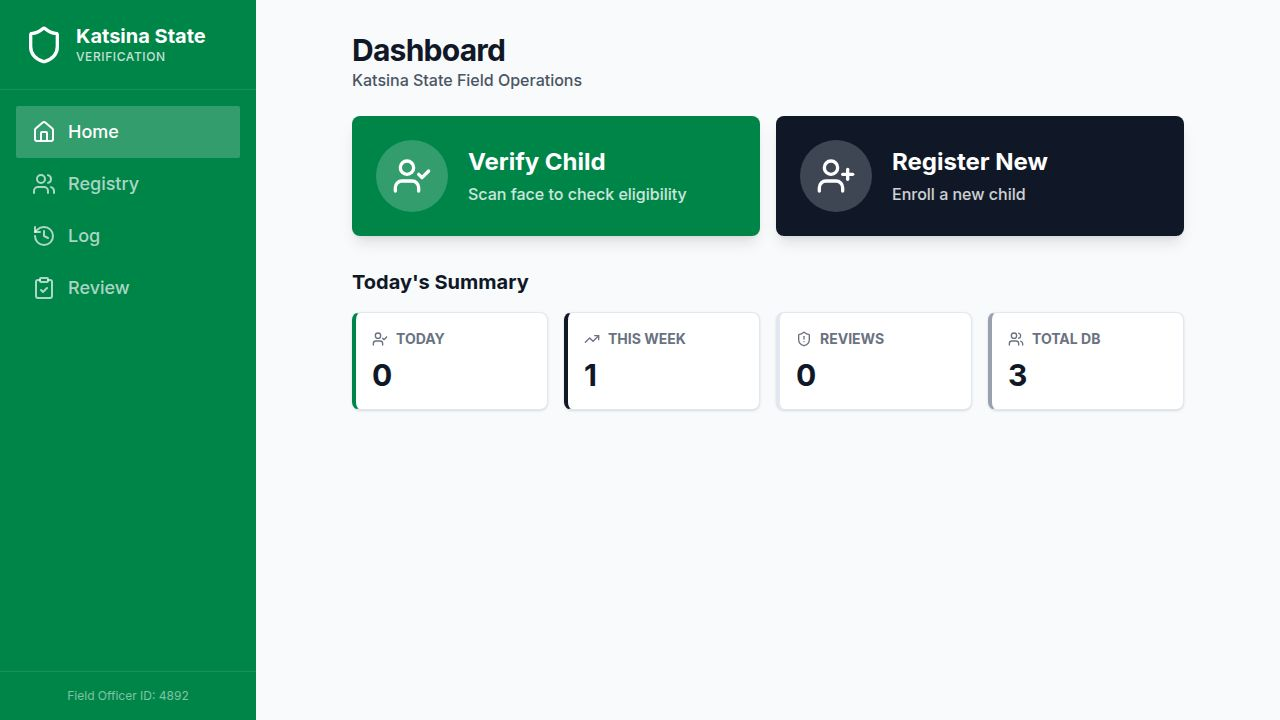
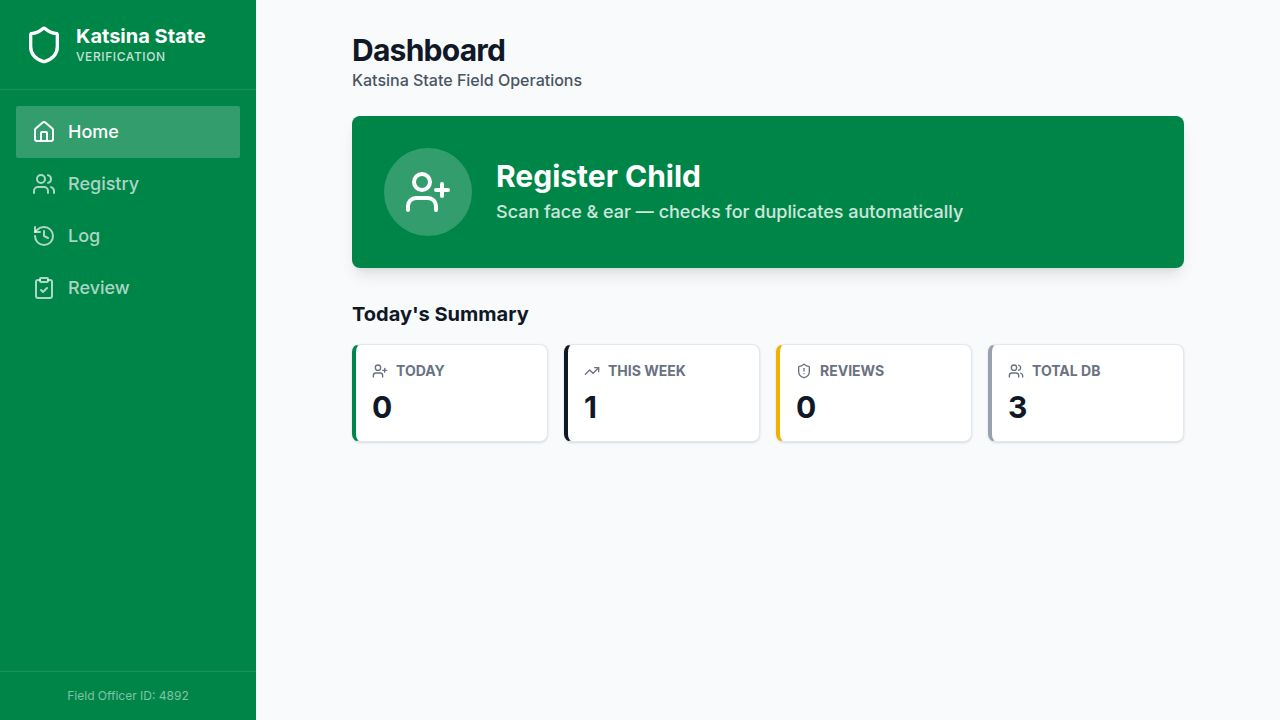
feat: Stop duplicate registrations from being accepted silently (#4)
## What changed

### API server (artifacts/api-server/src/routes/children.ts)
- Added THRESHOLD_REVIEW constant (0.48) and vecStr() helper, mirroring verify.ts
- After computing embeddings via the face service, POST /children now runs the
  same two-stage vector similarity query (face + ear fusion at 60/40 weighting)
  used by POST /verify before any INSERT is executed
- If no face is detected in the provided photo, the route now rejects with 400
  (mirrors /verify behavior, closes bypass path where poor-quality captures
  previously skipped the duplicate check and proceeded to insert)
- If the fused similarity score meets or exceeds THRESHOLD_REVIEW the route
  returns HTTP 409 Conflict with:
    { error, matched_child: <full child record>, confidence: <score> }
  Registration is aborted — no duplicate row is written

### Frontend (artifacts/verification-app/src/pages/register.tsx)
- Added "duplicate" to the Step union type
- Added duplicateMatch state ({ child, confidence })
- resetFlow() now also clears duplicateMatch
- onError handler in registerMutation now inspects err.status === 409:
    - On 409: extracts matched_child and confidence from err.data,
      stores them in duplicateMatch state, transitions to "duplicate" step
    - On other errors: shows toast as before
- Added a full "duplicate" screen rendered when step === "duplicate":
    - Orange warning banner ("Possible Duplicate Registration")
    - Scanned face + ear photo thumbnails with similarity % badge
[…]

diff --git a/artifacts/verification-app/src/pages/register.tsx b/artifacts/verification-app/src/pages/register.tsx
@@ -9,7 +9,7 @@ import {
   useListLgas,
   getListLgasQueryKey,
 } from "@workspace/api-client-react";
-import type { VerificationResult } from "@workspace/api-client-react";
+import type { VerificationResult, Child } from "@workspace/api-client-react";
 import { Layout } from "@/components/layout";
 import { CameraCapture } from "@/components/camera-capture";
 import { VillageCombobox } from "@/components/village-combobox";
@@ -42,7 +42,7 @@ import {
 } from "lucide-react";
 import { toast } from "sonner";
 
-type Step = "face" | "ear" | "checking" | "exists" | "review" | "new_form";
+type Step = "face" | "ear" | "checking" | "exists" | "review" | "new_form" | "duplicate";
 
 const formSchema = z.object({
   first_name: z.string().min(1, "First name is required"),
@@ -62,6 +62,7 @@ export function Register() {
   const [faceImage, setFaceImage] = useState<string | null>(null);
   const [earImage, setEarImage] = useState<string | null>(null);
   const [verifyResult, setVerifyResult] = useState<VerificationResult | null>(null);
+  const [duplicateMatch, setDuplicateMatch] = useState<{ child: Child | null; confidence: number } | null>(null);
   const [gpsLat, setGpsLat] = useState<number | null>(null);
   const [gpsLng, setGpsLng] = useState<number | null>(null);
   const [gpsError, setGpsError] = useState(false);
@@ -100,6 +101,7 @@ export function Register() {
     setFaceImage(null);
     setEarImage(null);
     setVerifyResult(null);
+    setDuplicateMatch(null);
     form.reset();
   };
 
@@ -155,7 +157,16 @@ export function Register() {
           setLocation("/registry");
         },
         onError: (err: unknown) => {
-          toast.error((err as { error?: string })?.error ?? "Registration failed");
+          const apiErr = err as { status?: number; data?: { matched_child?: Child | null; confidence?: number; error?: string } };
+          if (apiErr?.status === 409 && apiErr?.data) {
+            setDuplicateMatch({
+              child: apiErr.data.matched_child ?? null,
+              confidence: apiErr.data.confidence ?? 0,
+            });
+            setStep("duplicate");
+          } else {
+            toast.error((apiErr?.data as { error?: string })?.error ?? "Registration failed");
+          }
         },
       }
     );
@@ -358,6 +369,105 @@ export function Register() {
             </Button>
             <Button variant="outline" onClick={resetFlow} className="w-full h-14 text-lg">
               <RefreshCw className="mr-2 h-5 w-5" /> Scan Again
+            </Button>
+          </div>
+        </div>
+      </Layout>
+    );
+  }
+
+  /* ── Duplicate detected during registration ─────────────────────── */
+  if (step === "duplicate") {
+    const child = duplicateMatch?.child ?? null;
+    const confidence = duplicateMatch?.confidence ?? 0;
+    return (
+      <Layout>
+        <div className="p-4 md:p-8 max-w-lg mx-auto w-full space-y-5">
+          <div className="bg-orange-500 text-white rounded-xl p-4 flex items-center gap-3 shadow">
+            <AlertTriangle className="w-10 h-10 shrink-0" />
+            <div>
+              <p className="font-black text-xl leading-tight">Possible Duplicate Registration</p>
+              <p className="text-white/80 text-sm">This child may already be in the database</p>
+            </div>
+          </div>
+
+          <div className="flex gap-3">
+            {faceImage && (
+              <div className="flex flex-col items-center gap-1">
+                <img src={faceImage} alt="Face" className="w-24 h-24 rounded-lg object-cover border-2 border-gray-200" />
+                <span className="text-xs font-bold text-gray-500 uppercase">Scanned Face</span>
+              </div>
+            )}
+            {earImage && (
+              <div className="flex flex-col items-center gap-1">
+                <img src={earImage} alt="Ear" className="w-24 h-24 rounded-lg object-cover border-2 border-gray-200" />
+                <span className="text-xs font-bold text-gray-500 uppercase">Scanned Profile</span>
+              </div>
+            )}
+            <div className="flex flex-col items-center justify-center ml-auto px-4 bg-orange-50 rounded-lg border border-orange-200">
+              <p className="text-3xl font-black text-orange-700">
+                {Math.round(confidence * 100)}%
+              </p>
+              <p className="text-xs font-bold text-orange-600 uppercase">Similarity</p>
+            </div>
+          </div>
+
+          {child && (
+            <div className="bg-white rounded-xl p-5 shadow border space-y-4">
+              <p className="text-xs font-bold text-gray-400 uppercase tracking-wider">Matched Record</p>
+              <div className="flex gap-4 items-start">
+                {child.face_photo ? (
+                  <img
+                    src={child.face_photo}
+                    alt={child.first_name}
+                    className="w-20 h-20 rounded-full object-cover border-2 border-gray-200 shrink-0"
+                  />
+                ) : (
+                  <div className="w-20 h-20 rounded-full bg-gray-100 flex items-center justify-center border-2 border-gray-200 shrink-0">
+                    <span className="text-3xl font-black text-gray-400">
+                      {child.first_name[0]}
+                    </span>
+                  </div>
+                )}
+                <div>
+                  <p className="text-2xl font-black text-gray-900">
+                    {child.first_name} {child.surname}
+                  </p>
+                  <p className="text-gray-600 font-medium">Guardian: {child.guardian_name}</p>
+                  <p className="text-gray-500 text-sm">{child.lga} · {child.village}</p>
+                </div>
+              </div>
+              <div className="grid grid-cols-2 gap-3 pt-2 border-t">
+                <div>
+                  <p className="text-xs font-bold text-gray-400 uppercase">Date of Birth</p>
+                  <p className="font-semibold text-gray-800">{child.date_of_birth}</p>
+                </div>
+                <div>
+                  <p className="text-xs font-bold text-gray-400 uppercase">Village</p>
+                  <p className="font-semibold text-gray-800">{child.village}</p>
+                </div>
+                {child.visible_marks && (
+                  <div className="col-span-2">
+                    <p className="text-xs font-bold text-gray-400 uppercase">Visible Marks</p>
+                    <p className="font-semibold text-gray-800">{child.visible_marks}</p>
+                  </div>
+                )}
+              </div>
+            </div>
+          )}
+
+          <div className="bg-orange-50 border border-orange-200 rounded-xl p-4">
+            <p className="text-orange-900 font-bold text-sm">
+              Registration was blocked. If this is a different child, retake the photos and try again. Otherwise, use the Verify screen instead of Register.
+            </p>
+          </div>
+
+          <div className="space-y-3 pt-2">
+            <Button onClick={() => setLocation("/")} className="w-full h-14 text-lg font-bold">
+              Done — Return Home
+            </Button>
+            <Button variant="outline" onClick={resetFlow} className="w-full h-14 text-lg">
+              <RefreshCw className="mr-2 h-5 w-5" /> Retake Photos &amp; Try Again
             </Button>
           </div>
         </div>

diff --git a/artifacts/api-server/src/routes/children.ts b/artifacts/api-server/src/routes/children.ts
@@ -1,8 +1,14 @@
 import { Router } from "express";
 import { pool, db, childrenTable } from "@workspace/db";
+import { eq } from "drizzle-orm";
 
 const router = Router();
 const FACE_SERVICE_URL = process.env.FACE_SERVICE_URL ?? "http://localhost:8000";
+const THRESHOLD_REVIEW = 0.48;
+
+function vecStr(v: number[]): string {
+  return `[${v.join(",")}]`;
+}
 
 router.get("/", async (req, res) => {
   const { lga, village, search, limit = "50", offset = "0" } = req.query as Record<string, string>;
@@ -75,6 +81,71 @@ router.post("/", async (req, res) => {
     embResult = await resp.json();
   } catch (err: any) {
     return res.status(503).json({ error: `Face service unavailable: ${err.message}` });
+  }
+
+  const faceEmb = embResult.face_embeddings[0] as number[] | undefined;
+  const earEmb = embResult.ear_embeddings[0] as number[] | undefined;
+
+  if (!faceEmb || !embResult.face_detected[0]) {
+    return res
+      .status(400)
+      .json({ error: "No face detected in the face photo. Please retake in good light." });
+  }
+
+  const candidates = await pool.query<{
+    child_id: number;
+    face_dist: number;
+    ear_dist: number | null;
+  }>(
+    `WITH face_cands AS (
+       SELECT child_id, MIN(embedding <=> $1::vector) AS face_dist
+       FROM child_biometrics WHERE modality = 'face'
+       GROUP BY child_id ORDER BY face_dist ASC LIMIT 10
+     ),
+     ear_dists AS (
+       SELECT child_id, MIN(embedding <=> $2::vector) AS ear_dist
+       FROM child_biometrics
+       WHERE modality = 'ear' AND child_id IN (SELECT child_id FROM face_cands)
+       GROUP BY child_id
+     )
+     SELECT fc.child_id, fc.face_dist, ed.ear_dist
+     FROM face_cands fc
+     LEFT JOIN ear_dists ed ON fc.child_id = ed.child_id
+     ORDER BY (0.6 * fc.face_dist + 0.4 * COALESCE(ed.ear_dist, fc.face_dist)) ASC
+     LIMIT 1`,
+    [vecStr(faceEmb), earEmb ? vecStr(earEmb) : vecStr(faceEmb)],
+  );
+
+  const best = candidates.rows[0] ?? null;
+  if (best) {
+    const faceSim = Math.max(0, 1 - best.face_dist);
+    const earSim = Math.max(0, 1 - (best.ear_dist ?? best.face_dist));
+    const fusedSim = 0.6 * faceSim + 0.4 * earSim;
+
+    if (fusedSim >= THRESHOLD_REVIEW) {
+      const rows = await db
+        .select()
+        .from(childrenTable)
+        .where(eq(childrenTable.id, best.child_id))
+        .limit(1);
+      let matchedChild = null;
+      if (rows[0]) {
+        const vc = await pool.query<{ count: string }>(
+          "SELECT COUNT(*)::text FROM verifications WHERE child_id = $1",
+          [rows[0].id],
+        );
+        matchedChild = {
+          ...rows[0],
+          created_at: rows[0].created_at.toISOString(),
+          verification_count: parseInt(vc.rows[0].count, 10),
+        };
+      }
+      return res.status(409).json({
+        error: "Likely duplicate registration detected",
+        matched_child: matchedChild,
+        confidence: fusedSim,
+      });
+    }
   }
 
   const facePhoto =
